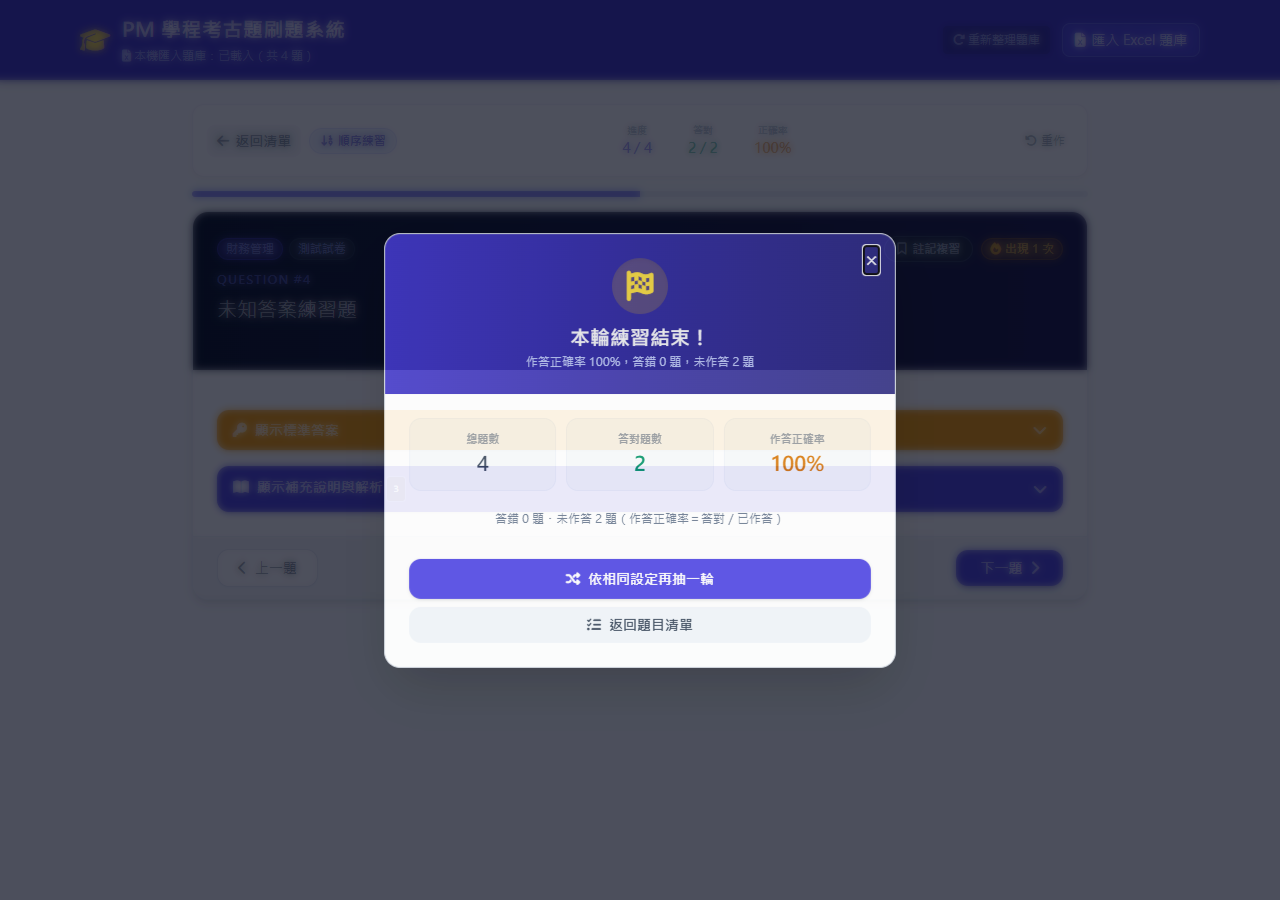
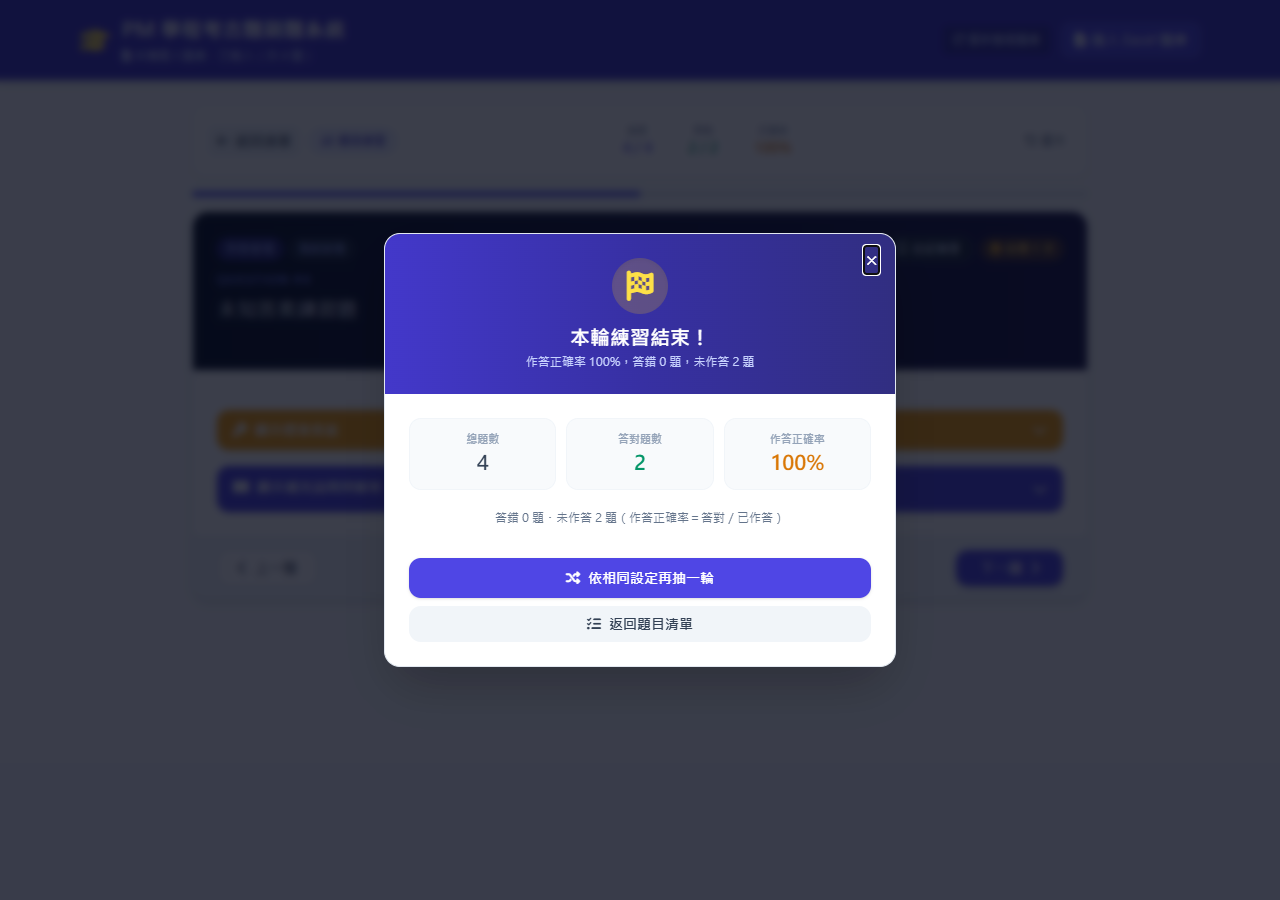
test(evidence): 截圖完成彈窗動畫後的穩定畫面

diff --git a/tests/browser-workflow.py b/tests/browser-workflow.py
@@ -40,7 +40,7 @@ def exercise(page, width, suffix):
     enter(page)
     expect(page.locator('#advancedFilters')).not_to_have_attribute('open', '')
     expect(page.locator('dialog[open]')).to_have_count(0)
-    page.screenshot(path=str(OUTPUT / f'after-{suffix}.png'))
+    page.screenshot(path=str(OUTPUT / f'after-{suffix}.png'), animations='disabled')
     assert page.evaluate('document.documentElement.scrollWidth <= innerWidth'), 'horizontal overflow'
 
     # Settings remain secondary; native modal keeps focus inside and returns it.
@@ -137,7 +137,7 @@ def exercise(page, width, suffix):
     for key in ['Tab'] * 8 + ['Shift+Tab'] * 8:
         page.keyboard.press(key)
         assert_focus_inside(page, 'sessionSummaryModal')
-    page.screenshot(path=str(OUTPUT / f'after-summary-{suffix}.png'))
+    page.screenshot(path=str(OUTPUT / f'after-summary-{suffix}.png'), animations='disabled')
     page.keyboard.press('Escape')
     expect(page.locator('dialog[open]')).to_have_count(0)
     expect(next_button).to_be_focused()
@@ -202,9 +202,9 @@ with sync_playwright() as p:
     expect(fresh.locator('#subjectSwitcher option')).to_have_count(3, timeout=60000)
     assert fresh.locator('#advancedFilters').count() == 1, 'advanced controls must be collapsed by default'
     expect(fresh.locator('#advancedFilters')).not_to_have_attribute('open', '')
-    fresh.screenshot(path=str(OUTPUT / 'after-first-load.png'))
+    fresh.screenshot(path=str(OUTPUT / 'after-first-load.png'), animations='disabled')
     fresh.set_viewport_size({'width': 390, 'height': 844})
-    fresh.screenshot(path=str(OUTPUT / 'after-first-load-mobile.png'))
+    fresh.screenshot(path=str(OUTPUT / 'after-first-load-mobile.png'), animations='disabled')
     print('fresh official question-bank load: passed')
     fresh.close()
     for width, height, suffix in [(1280, 900, 'desktop'), (390, 844, 'mobile')]:
